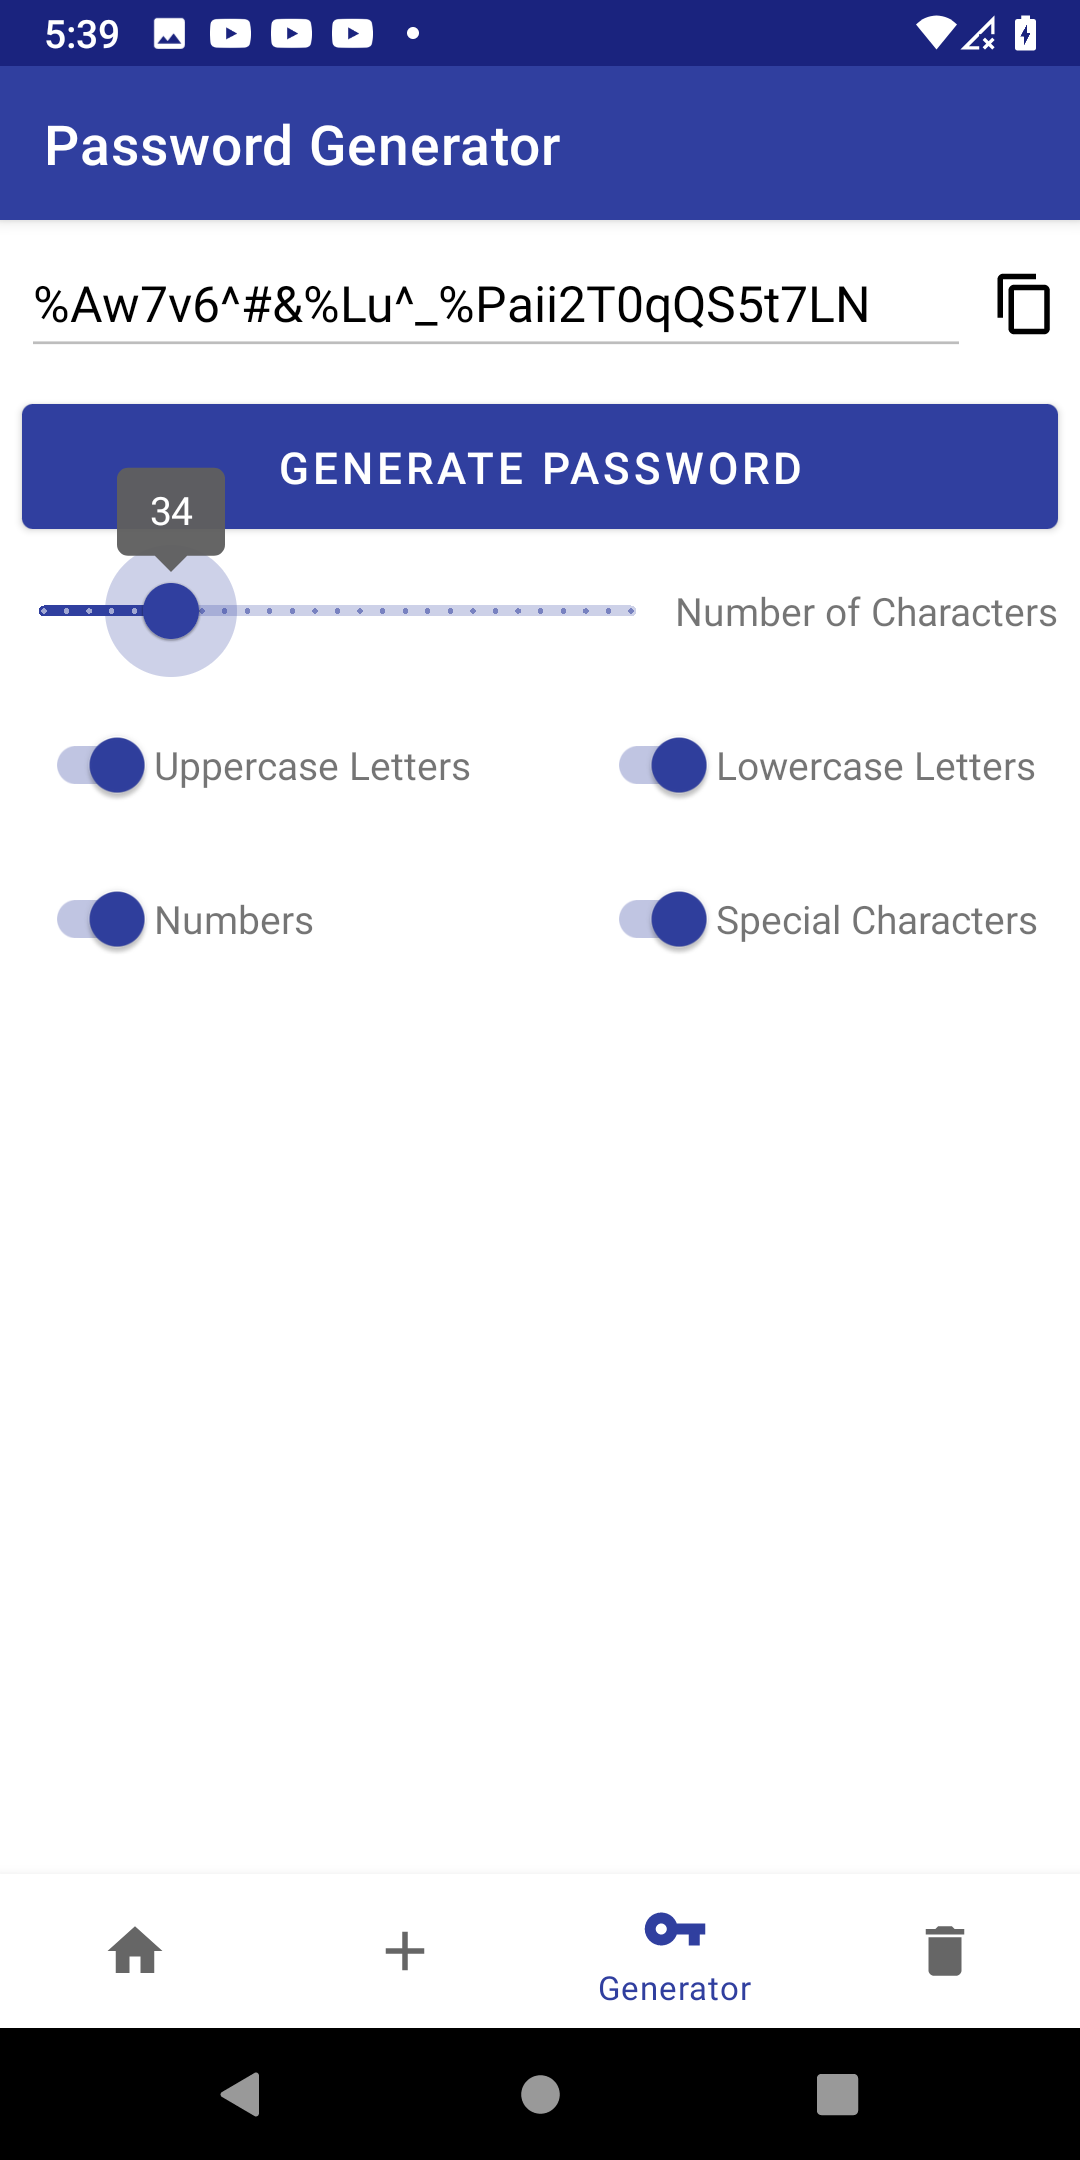
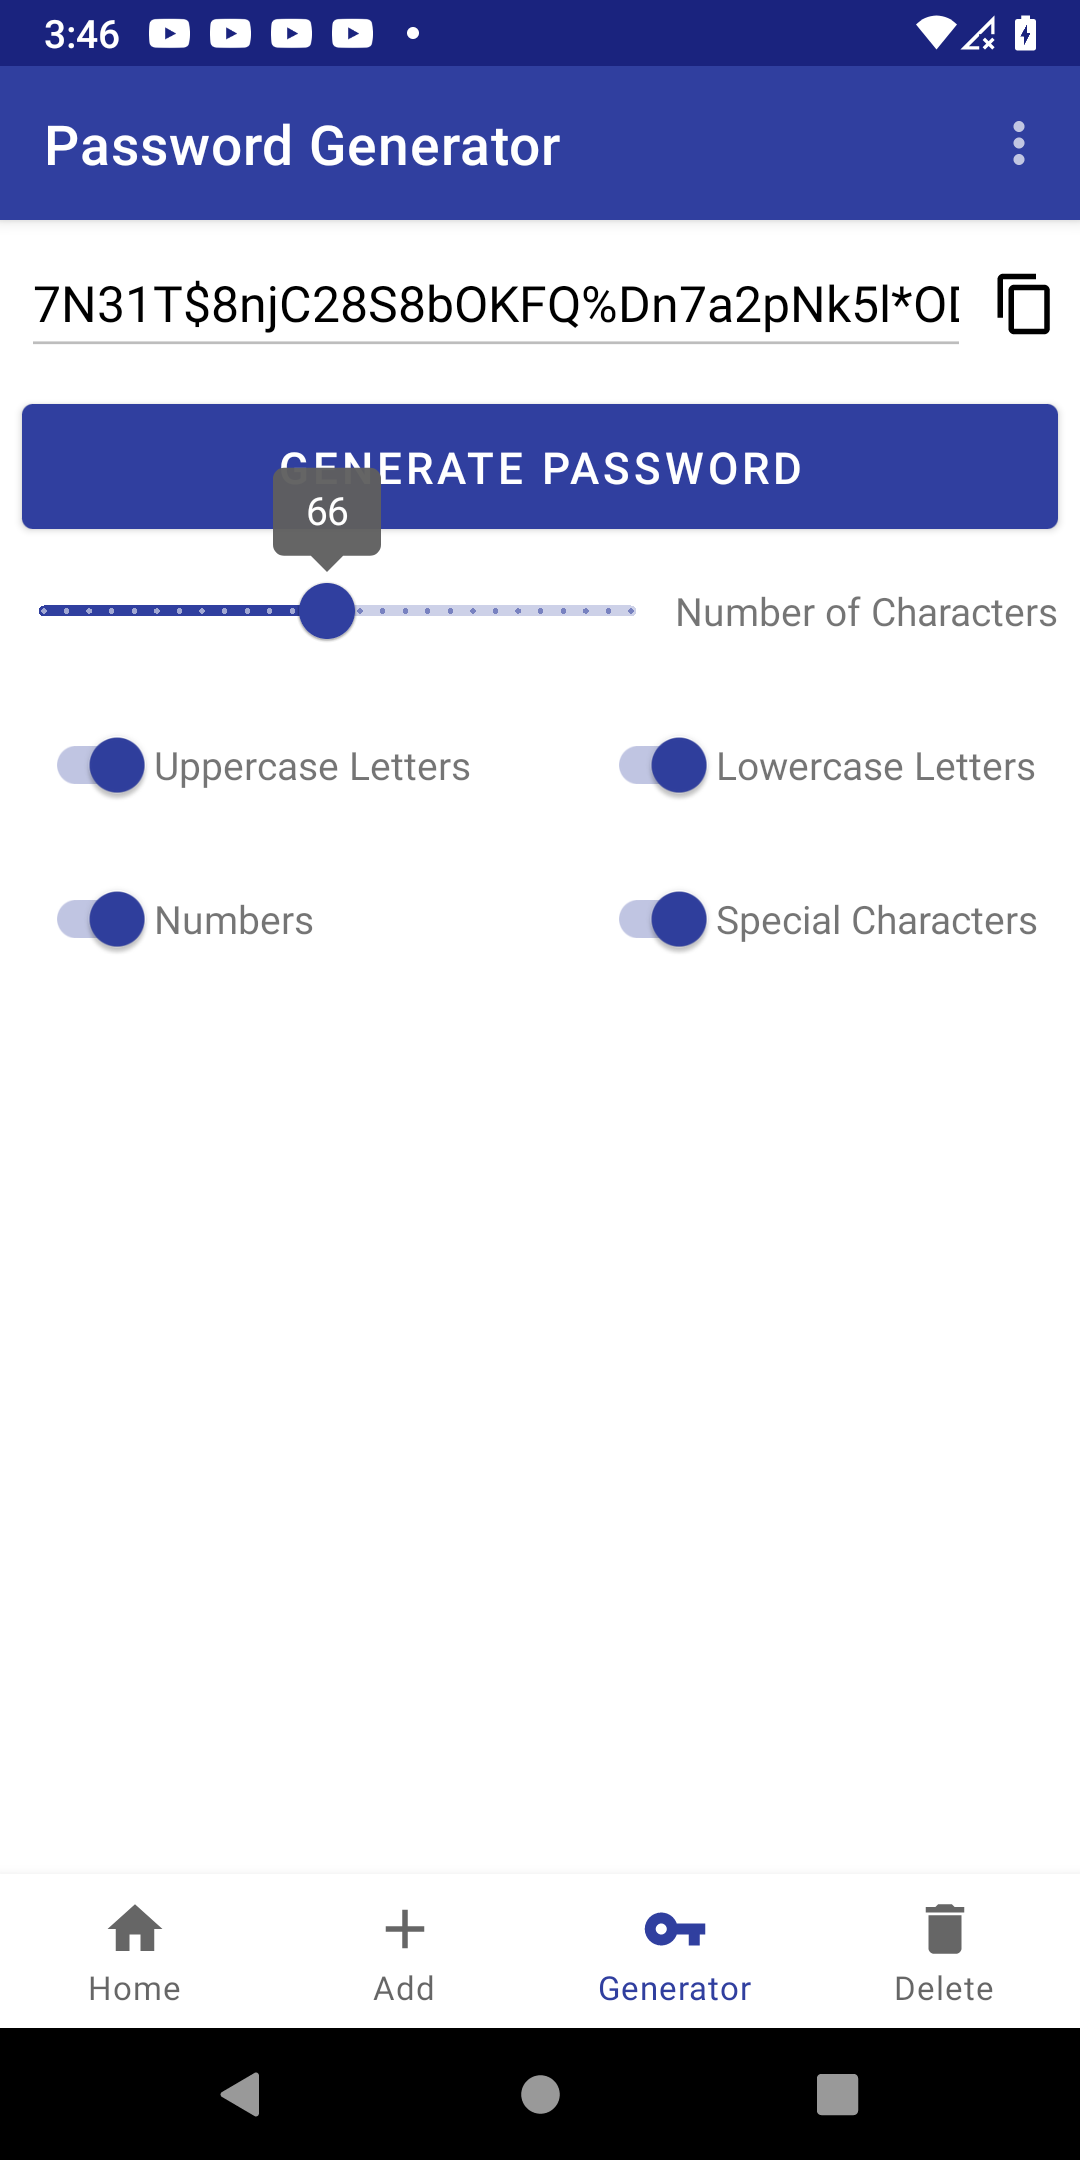
Updated screenshots and readme.

diff --git a/README.md b/README.md
@@ -28,17 +28,19 @@ Pass Vault allows you to store your passwords for all of your accounts in one ap
 
 <img src="https://github.com/justvinny/pass-vault-java-android/blob/main/Screenshots/login_screen.png" alt="Login Screenshot" width="370" height="750">
 
-<img src="https://github.com/justvinny/pass-vault-java-android/blob/main/Screenshots/home.jpg" alt="Home Screenshot" width="370" height="750">
+<img src="https://github.com/justvinny/pass-vault-java-android/blob/main/Screenshots/home.png" alt="Home Screenshot" width="370" height="750">
 
-<img src="https://github.com/justvinny/pass-vault-java-android/blob/main/Screenshots/add_account.jpg" alt="Add Account Screenshot" width="370" height="750">
+<img src="https://github.com/justvinny/pass-vault-java-android/blob/main/Screenshots/add_account.png" alt="Add Account Screenshot" width="370" height="750">
 
-<img src="https://github.com/justvinny/pass-vault-java-android/blob/main/Screenshots/delete_account.jpg" alt="Delete Account Screenshot" width="370" height="750">
+<img src="https://github.com/justvinny/pass-vault-java-android/blob/main/Screenshots/delete_account.png" alt="Delete Account Screenshot" width="370" height="750">
 
 <img src="https://github.com/justvinny/pass-vault-java-android/blob/main/Screenshots/password_generator.png" alt="Password Generator Screenshot" width="370" height="750">
 
 <img src="https://github.com/justvinny/pass-vault-java-android/blob/main/Screenshots/sort_feature.png" alt="Sort Screenshot" width="370" height="750">
 
 <img src="https://github.com/justvinny/pass-vault-java-android/blob/main/Screenshots/search_feature.png" alt="Search Screenshot" width="370" height="750">
+
+<img src="https://github.com/justvinny/pass-vault-java-android/blob/main/Screenshots/menu.png" alt="Menu Screenshot" width="370" height="750">
 
 # Old Desktop Version (Python)
 - The desktop version is one of the very first applications I've made when I was learning Python a year ago. 
